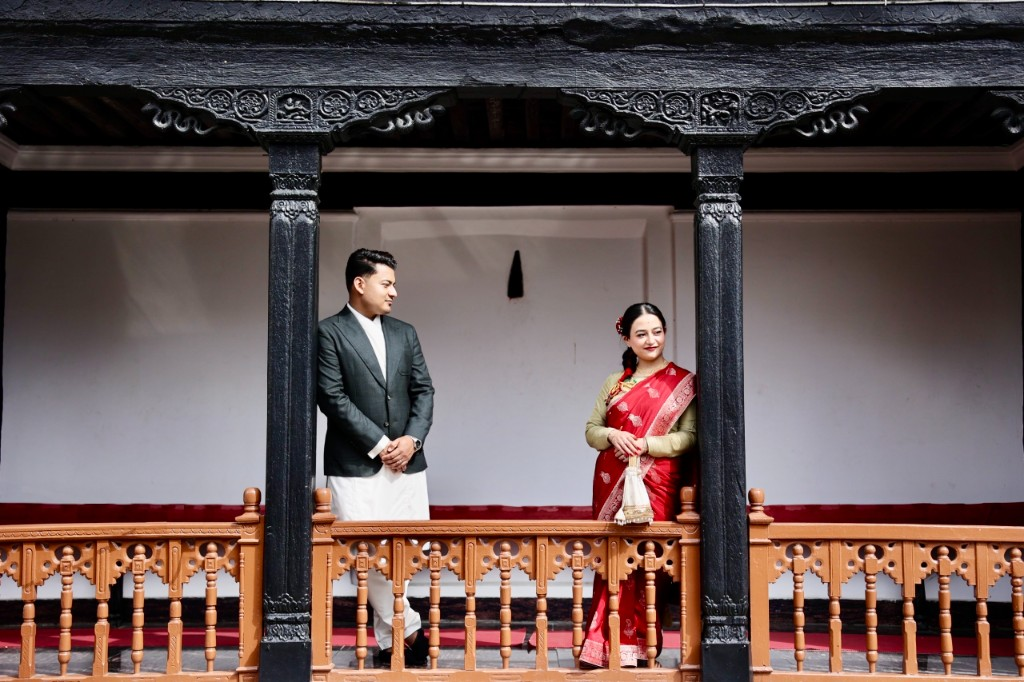
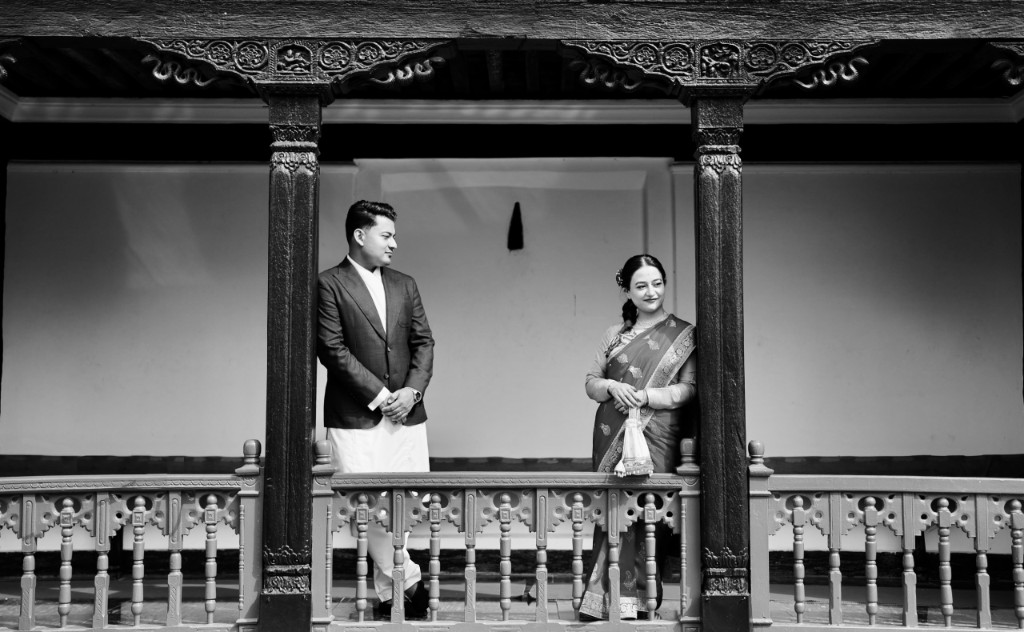
Switch hero to black-and-white couple photo background.
Replace the color hero image, remove the monogram, and restore ivory glass UI for readability on the photo.

diff --git a/components/Hero.tsx b/components/Hero.tsx
@@ -6,23 +6,23 @@ export function Hero({ wedding }: { wedding: WeddingData }) {
   const { couple, dateDisplay, location, countdownDate } = wedding;
 
   return (
-    <section id="home" className="relative min-h-screen bg-ivory">
-      <div className="relative z-10 flex min-h-screen flex-col items-center justify-center px-6 py-20 text-center md:px-12 md:py-24">
-        <Image
-          src="/images/save-the-date.png"
-          alt={`Save the Date — ${couple.bride} and ${couple.groom}`}
-          width={1024}
-          height={1024}
-          priority
-          sizes="(max-width: 768px) 340px, 400px"
-          className="h-auto w-full max-w-[340px] md:max-w-[400px]"
-        />
+    <section id="home" className="relative min-h-screen">
+      <Image
+        src="/images/hero-couple.png"
+        alt={`${couple.bride} and ${couple.groom}`}
+        fill
+        priority
+        sizes="100vw"
+        className="object-cover object-center"
+      />
+      <div className="absolute inset-0 bg-black/25" aria-hidden />
 
-        <div className="glass mt-6 rounded-2xl px-8 py-5 md:mt-8">
-          <p className="font-serif text-xl text-green md:text-2xl">
+      <div className="relative z-10 flex min-h-screen flex-col items-center justify-center px-6 py-20 text-center md:px-12 md:py-24">
+        <div className="glass rounded-2xl px-8 py-5 md:px-10 md:py-6">
+          <p className="font-serif text-xl text-ivory md:text-2xl">
             {dateDisplay}
           </p>
-          <p className="mt-2 text-sm tracking-wide text-green/80 md:text-base">
+          <p className="mt-2 text-sm tracking-wide text-ivory/80 md:text-base">
             {location.city}
           </p>
         </div>
@@ -32,7 +32,7 @@ export function Hero({ wedding }: { wedding: WeddingData }) {
         <div className="mt-12 flex w-full flex-col items-center md:mt-16">
           <a
             href="#details"
-            className="glass flex flex-col items-center gap-2 rounded-2xl px-4 py-2 text-xs uppercase tracking-[0.25em] text-green transition-colors hover:bg-white/30 hover:text-gold"
+            className="glass flex flex-col items-center gap-2 rounded-2xl px-4 py-2 text-xs uppercase tracking-[0.25em] text-ivory transition-colors hover:bg-white/30 hover:text-gold"
           >
             <span>Discover more</span>
             <svg
@@ -52,14 +52,6 @@ export function Hero({ wedding }: { wedding: WeddingData }) {
               />
             </svg>
           </a>
-
-          <Image
-            src="/images/psj-monogram.png"
-            alt={`${couple.bride} and ${couple.groom} monogram`}
-            width={936}
-            height={873}
-            className="mx-auto mt-8 h-auto w-full max-w-[200px] md:max-w-[240px]"
-          />
         </div>
       </div>
     </section>

diff --git a/components/Countdown.tsx b/components/Countdown.tsx
@@ -44,7 +44,7 @@ export function Countdown({ countdownDate }: { countdownDate: string }) {
 
   if (!timeLeft) {
     return (
-      <p className="glass relative mt-10 rounded-2xl px-6 py-4 font-serif text-lg italic text-green md:text-xl">
+      <p className="glass relative mt-10 rounded-2xl px-6 py-4 font-serif text-lg italic text-ivory md:text-xl">
         The day has arrived!
       </p>
     );
@@ -57,10 +57,10 @@ export function Countdown({ countdownDate }: { countdownDate: string }) {
           key={key}
           className="glass flex flex-col items-center rounded-2xl px-2 py-3 md:px-4 md:py-5"
         >
-          <span className="font-serif text-2xl text-green md:text-4xl">
+          <span className="font-serif text-2xl text-ivory md:text-4xl">
             {String(timeLeft[key]).padStart(2, "0")}
           </span>
-          <span className="mt-1 text-[10px] uppercase tracking-wider text-green/60 md:text-xs">
+          <span className="mt-1 text-[10px] uppercase tracking-wider text-ivory/60 md:text-xs">
             {label}
           </span>
         </div>